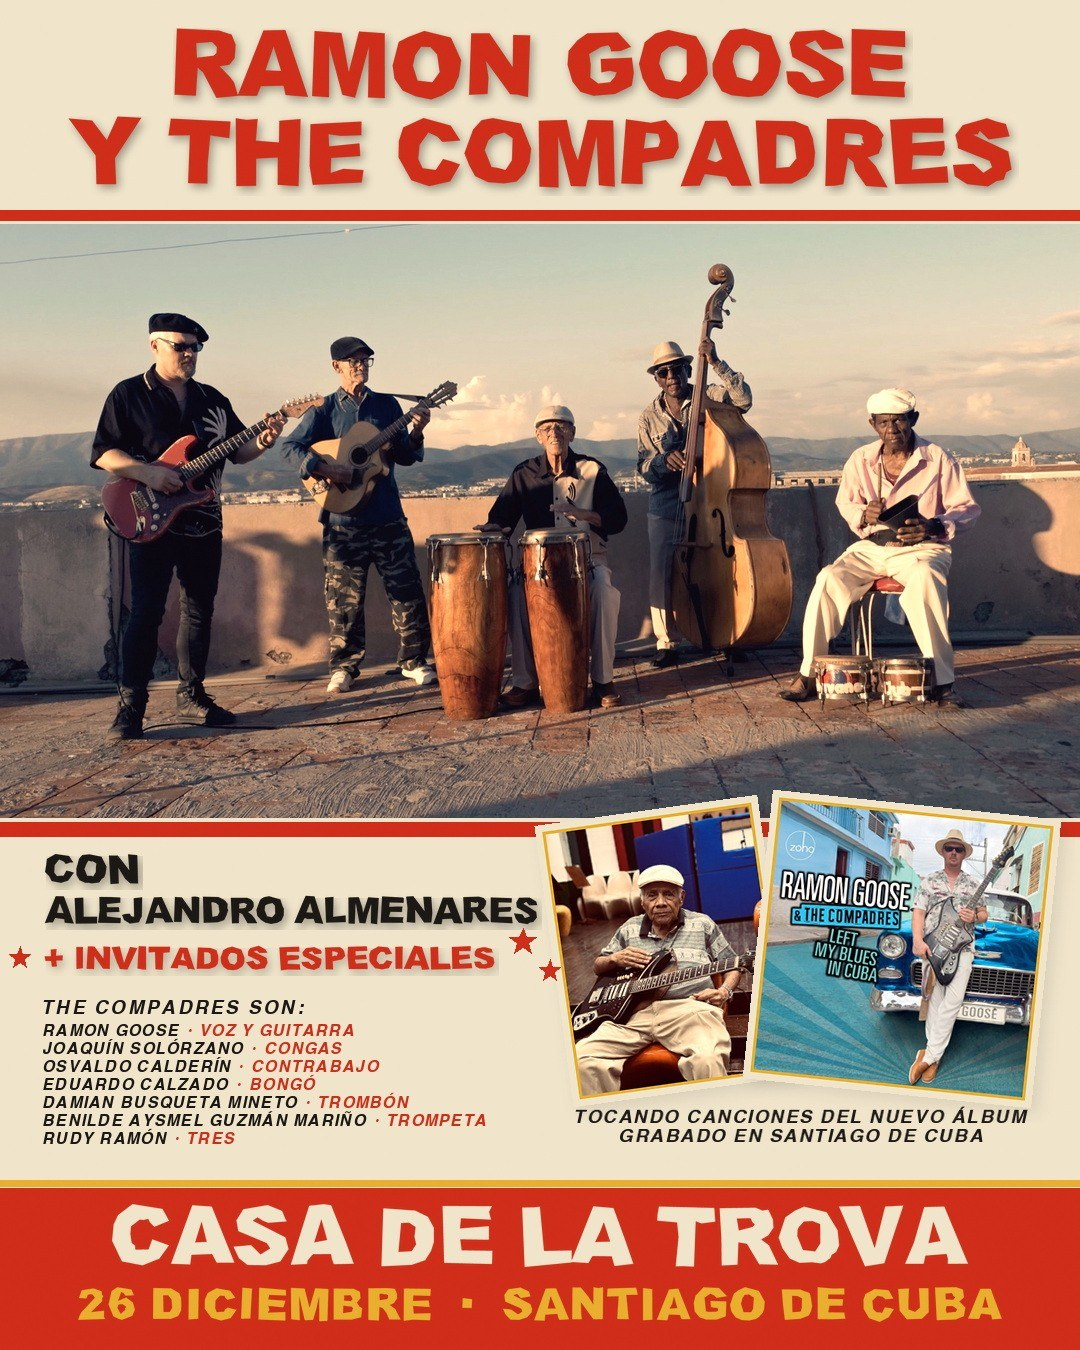
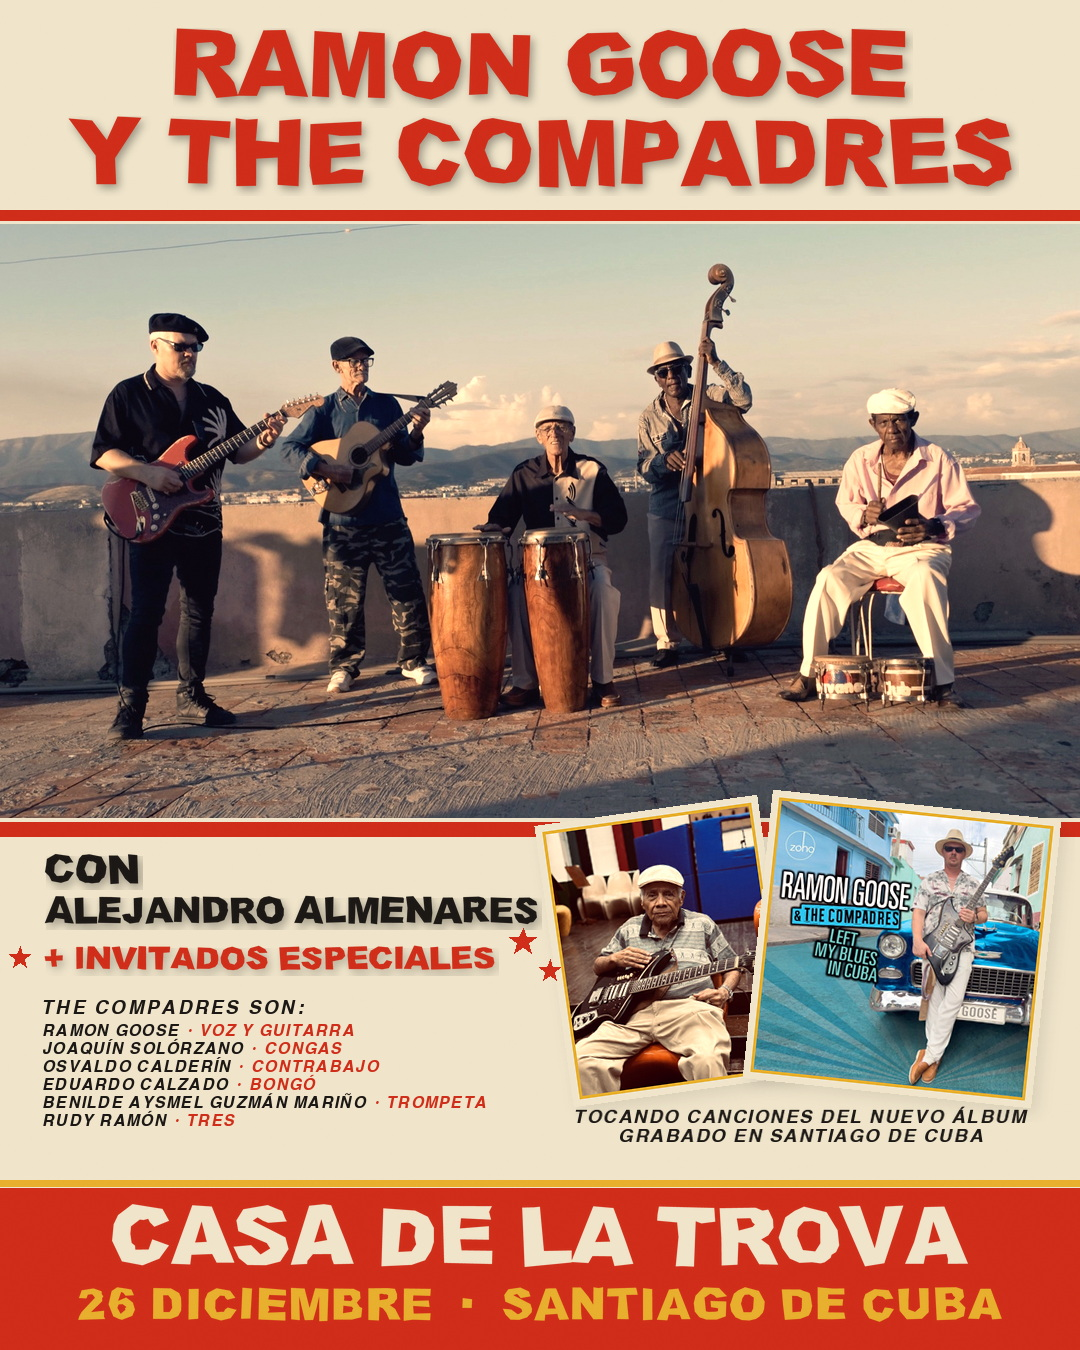
Remove the trombone player from the site
His name comes off the album personnel, the band page and the Casa de la
Trova poster caption, in both languages. The horn-section entry is now
Benilde Aysmel Guzmán Mariño on trumpet alone, with a photograph cropped
to Ramon and Benilde, saved under a new filename.

The poster is rebuilt from its own script rather than retouched, so the
credit list is regenerated cleanly at the same size as before.

diff --git a/src/content/site.es.js b/src/content/site.es.js
@@ -157,7 +157,6 @@ export const music = {
       { name: 'Mustafa', role: 'Piano' },
       { name: 'Nancy Maura', role: 'Voz en Porque y Si Pudiera Expresarte (1935–2025)' },
       { name: 'Alejandro Almenares', role: 'Guitarra y voz' },
-      { name: 'Damian Busqueta Mineto', role: 'Trombón' },
       { name: 'Benilde Aysmel Guzmán Mariño', role: 'Trompeta' },
       { name: 'Rick Vito', role: 'Guitarra solista en I Loved Another Woman' },
     ],
@@ -265,7 +264,7 @@ export const tour = {
         src: '/images/tour/casa-de-la-trova-santiago-de-cuba-26-december-2026.jpg',
         alt: 'Cartel: Ramon Goose y The Compadres con Alejandro Almenares en la Casa de la Trova, Santiago de Cuba, 26 de diciembre de 2026',
         caption:
-          'Ramon Goose y The Compadres, con Alejandro Almenares e invitados especiales. Ramon Goose (voz y guitarra), Joaquín Solórzano (congas), Osvaldo Calderín (contrabajo), Eduardo Calzado (bongó), Damian Busqueta Mineto (trombón), Benilde Aysmel Guzmán Mariño (trompeta), Rudy Ramón (tres). Tocando canciones del nuevo álbum grabado en Santiago de Cuba.',
+          'Ramon Goose y The Compadres, con Alejandro Almenares e invitados especiales. Ramon Goose (voz y guitarra), Joaquín Solórzano (congas), Osvaldo Calderín (contrabajo), Eduardo Calzado (bongó), Benilde Aysmel Guzmán Mariño (trompeta), Rudy Ramón (tres). Tocando canciones del nuevo álbum grabado en Santiago de Cuba.',
       },
     },
     {
@@ -401,10 +400,10 @@ export const band = {
       bio: 'Una de las grandes boleristas de Santiago de Cuba, y una de las últimas defensoras del género en la ciudad. Nacida Justina María Balbuena Céspedes en 1935, cantaba desde los nueve años y nunca se fue de Santiago, porque era santiaguera y ahí se acababa la discusión. Canta en Porque y en Si Pudiera Expresarte. Murió en abril de 2025, a los noventa años, lo que convierte estas grabaciones en de las últimas que hizo.',
     },
     {
-      name: 'Damian Busqueta Mineto y Benilde Aysmel Guzmán Mariño',
-      role: 'Los metales: trombón y trompeta',
-      photo: '/images/band/horn-section.jpg',
-      bio: 'Damian Busqueta Mineto al trombón, productor ganador de dos premios Grammy, y Benilde Aysmel Guzmán Mariño a la trompeta. Los dos se grabaron en Santiago después de la base rítmica, que es la razón por la que el disco tardó lo que tardó. Los metales son lo que separa a una banda de son de un septeto, y son lo último que se pone.',
+      name: 'Benilde Aysmel Guzmán Mariño',
+      role: 'Trompeta',
+      photo: '/images/band/benilde-guzman.jpg',
+      bio: 'Benilde Aysmel Guzmán Mariño a la trompeta, grabado en Santiago después de la base rítmica, que es la razón por la que el disco tardó lo que tardó. Los metales son lo que separa a una banda de son de un septeto, y son lo último que se pone.',
     },
     {
       name: 'Alejandro Almenares',

diff --git a/src/content/site.js b/src/content/site.js
@@ -220,7 +220,6 @@ export const music = {
       { name: 'Mustafa', role: 'Piano' },
       { name: 'Nancy Maura', role: 'Vocals on Porque and Si Pudiera Expresarte (1935–2025)' },
       { name: 'Alejandro Almenares', role: 'Guitar and vocals' },
-      { name: 'Damian Busqueta Mineto', role: 'Trombone' },
       { name: 'Benilde Aysmel Guzmán Mariño', role: 'Trumpet' },
       { name: 'Rick Vito', role: 'Lead guitar on I Loved Another Woman' },
     ],
@@ -434,7 +433,7 @@ export const tour = {
         src: '/images/tour/casa-de-la-trova-santiago-de-cuba-26-december-2026.jpg',
         alt: 'Concert poster: Ramon Goose y The Compadres with Alejandro Almenares at Casa de la Trova, Santiago de Cuba, 26 December 2026',
         caption:
-          'Ramon Goose y The Compadres, con Alejandro Almenares y invitados especiales. Ramon Goose (voice and guitar), Joaquín Solórzano (congas), Osvaldo Calderín (double bass), Eduardo Calzado (bongó), Damian Busqueta Mineto (trombone), Benilde Aysmel Guzmán Mariño (trumpet), Rudy Ramón (tres). Playing songs from the new album recorded in Santiago de Cuba.',
+          'Ramon Goose y The Compadres, con Alejandro Almenares y invitados especiales. Ramon Goose (voice and guitar), Joaquín Solórzano (congas), Osvaldo Calderín (double bass), Eduardo Calzado (bongó), Benilde Aysmel Guzmán Mariño (trumpet), Rudy Ramón (tres). Playing songs from the new album recorded in Santiago de Cuba.',
       },
     },
     {
@@ -617,10 +616,10 @@ export const band = {
       bio: 'One of the great bolero singers of Santiago de Cuba, and one of the last defenders of the form in the city. Born Justina María Balbuena Céspedes in 1935, she sang from the age of nine and never left Santiago, because she was a santiaguera and that was the end of it. She sings on Porque and Si Pudiera Expresarte. She died in April 2025, aged ninety, which makes these among the last things she recorded.',
     },
     {
-      name: 'Damian Busqueta Mineto and Benilde Aysmel Guzmán Mariño',
-      role: 'The horn section: trombone and trumpet',
-      photo: '/images/band/horn-section.jpg',
-      bio: 'Damian Busqueta Mineto on trombone, a twice Grammy-winning producer, and Benilde Aysmel Guzmán Mariño on trumpet. Both were cut in Santiago after the rhythm section, which is why the record took as long as it did to finish. Horns are what separate a son band from a son septet, and they are the last thing to go on.',
+      name: 'Benilde Aysmel Guzmán Mariño',
+      role: 'Trumpet',
+      photo: '/images/band/benilde-guzman.jpg',
+      bio: 'Benilde Aysmel Guzmán Mariño on trumpet, cut in Santiago after the rhythm section, which is why the record took as long as it did to finish. Horns are what separate a son band from a son septet, and they are the last thing to go on.',
     },
     {
       name: 'Alejandro Almenares',
